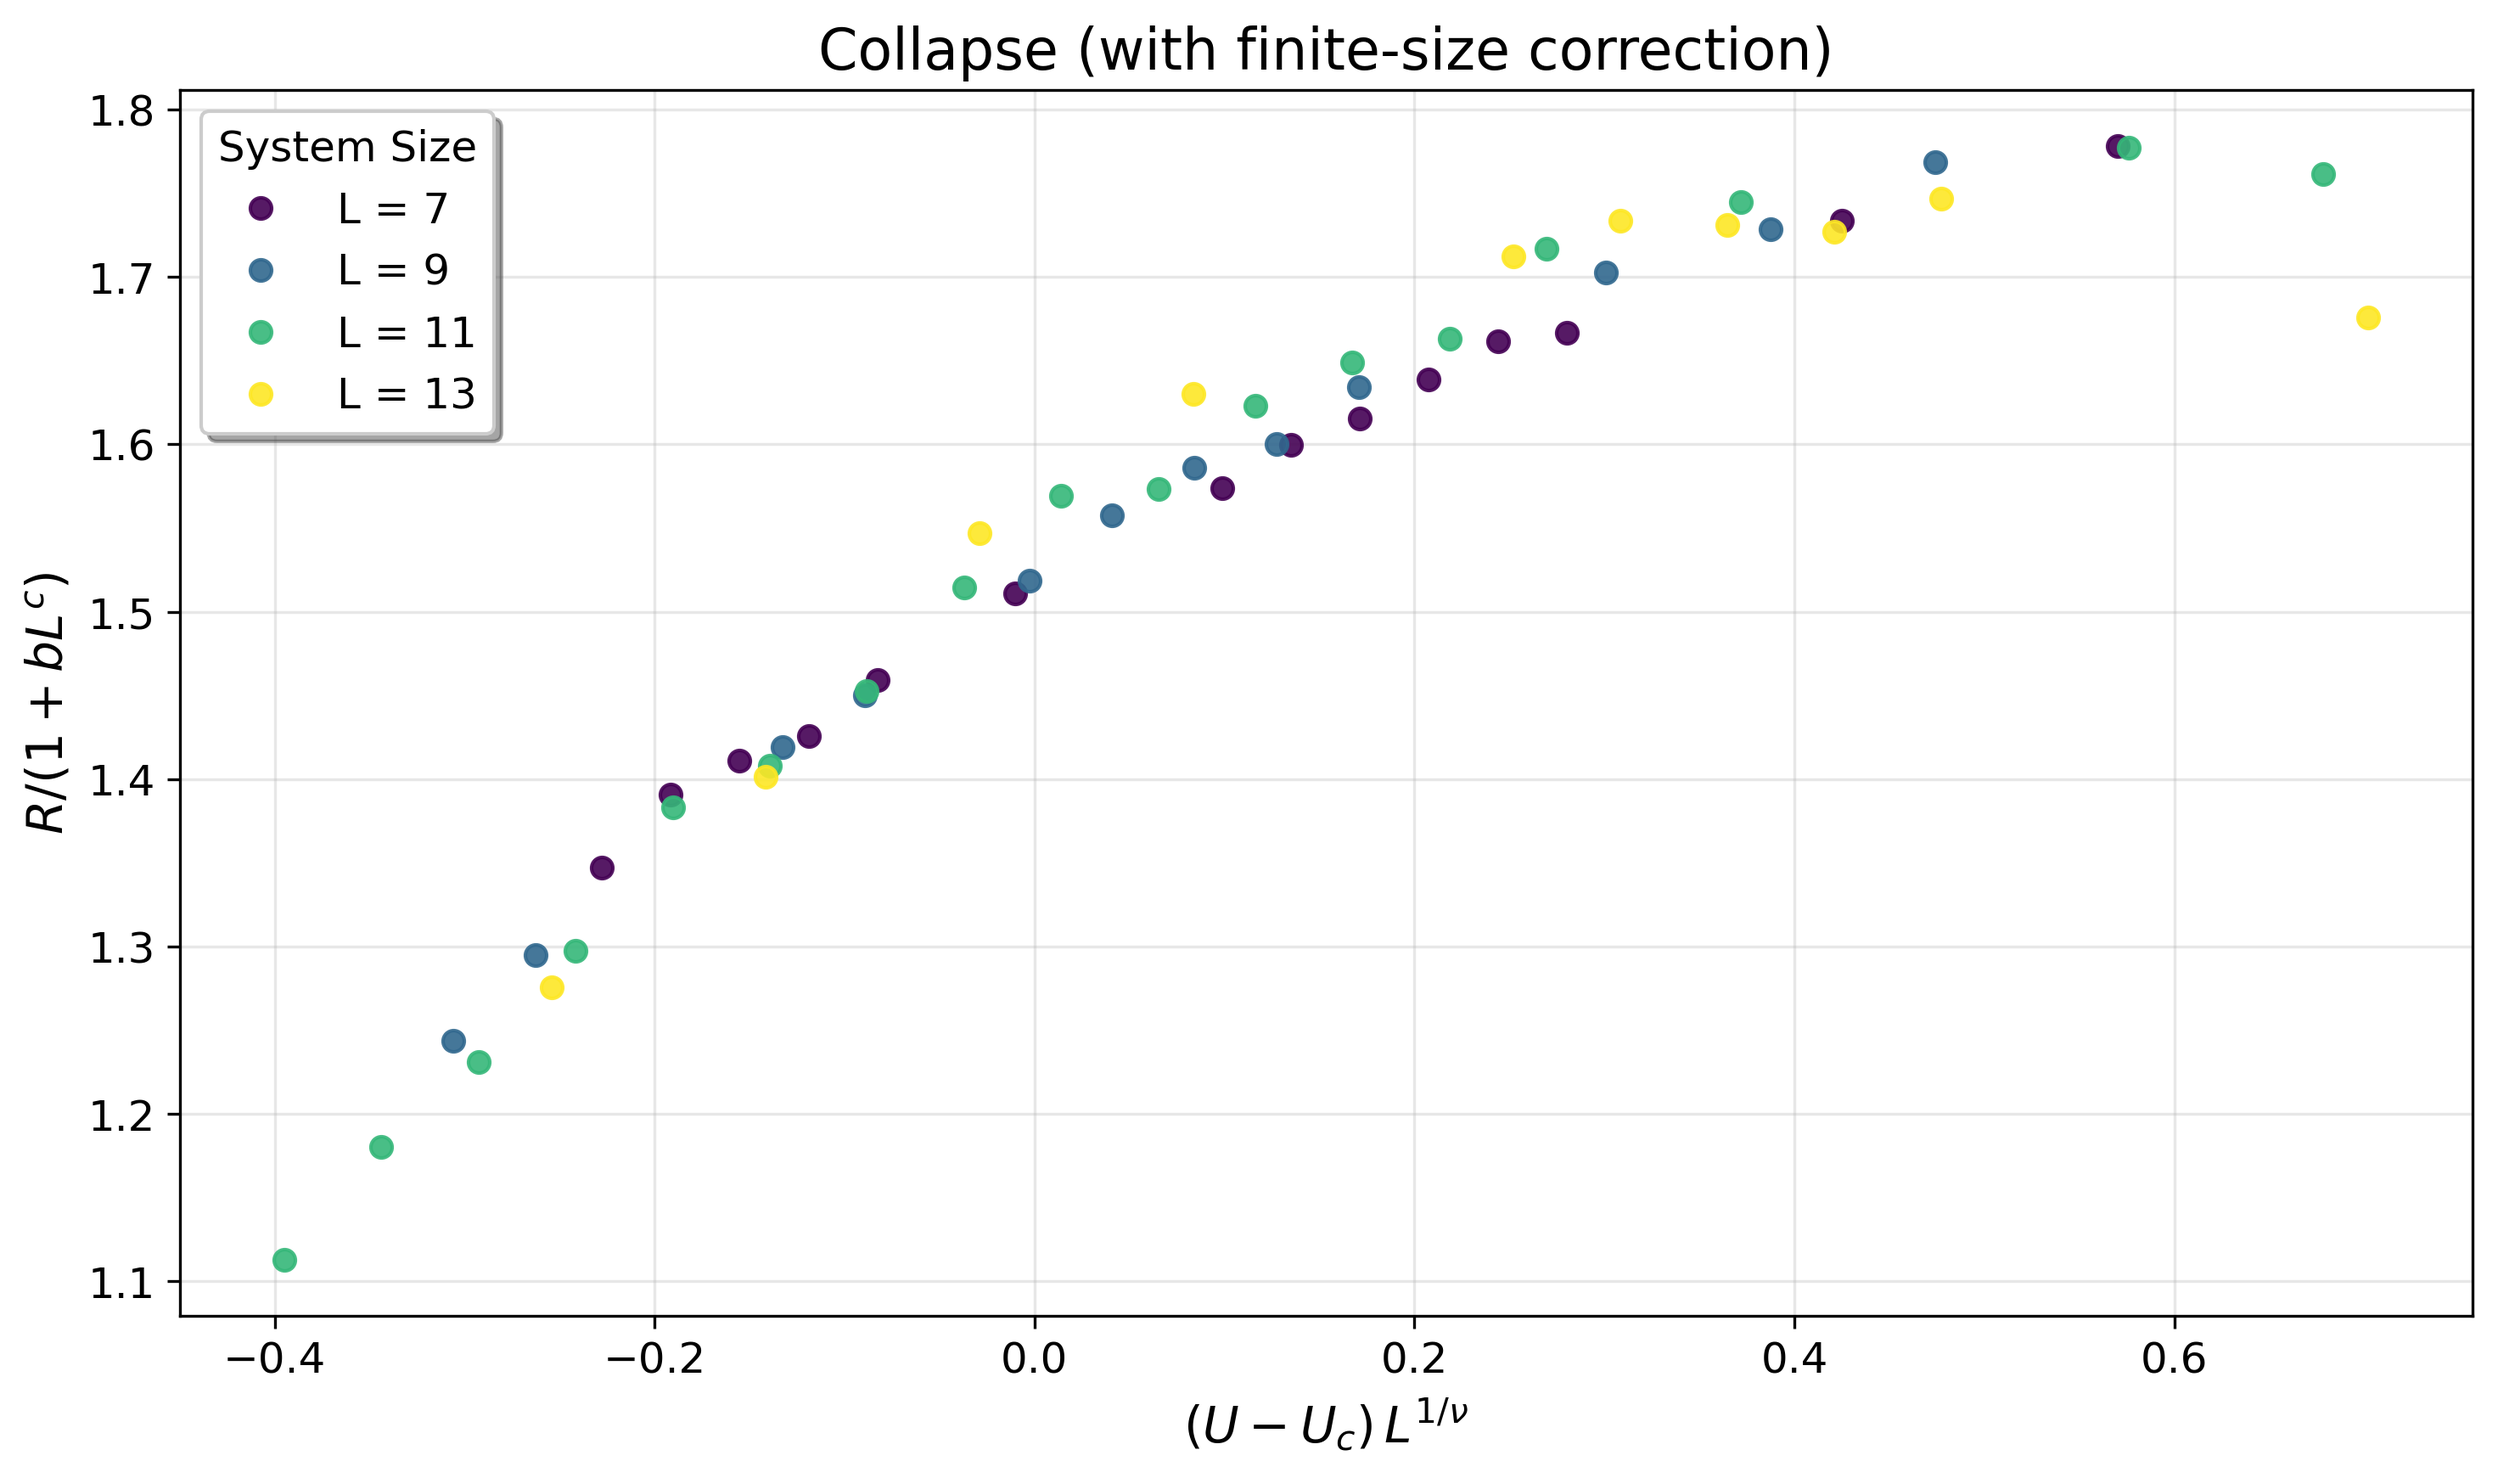
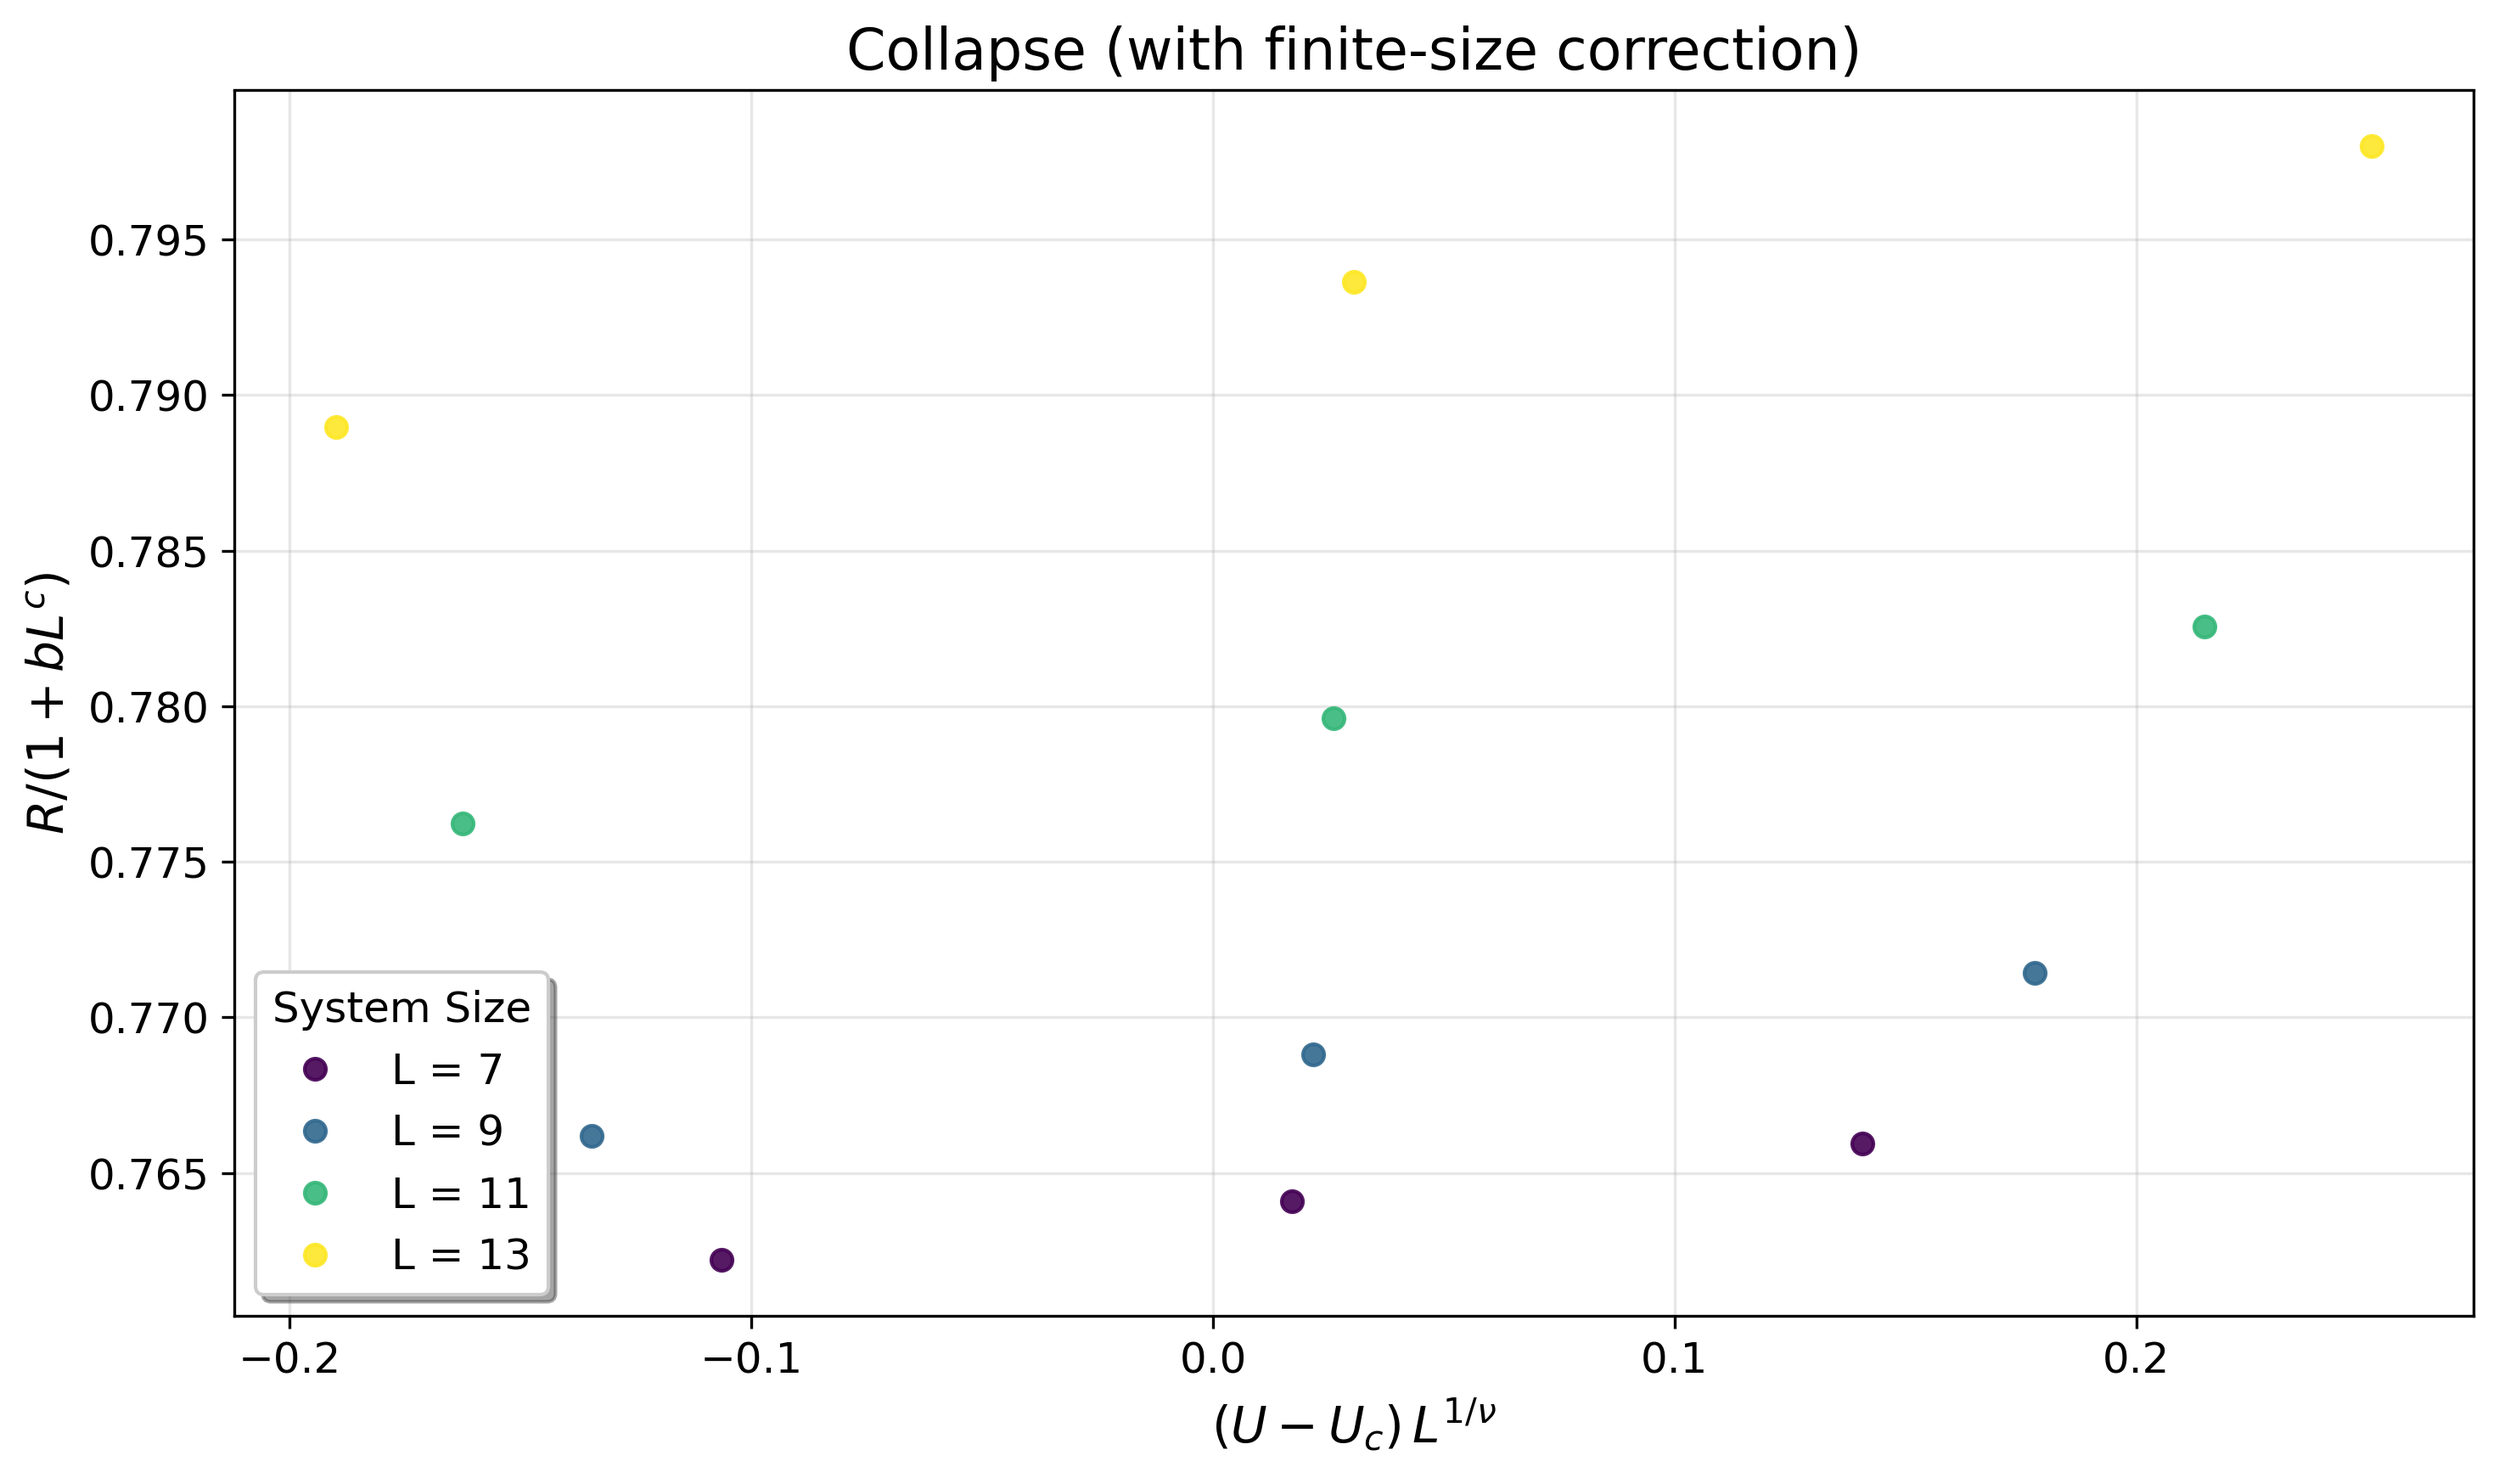
docs: rebuild README images using real_data_combined.csv (windowed robust fits)

diff --git a/examples/build_readme_images.py b/examples/build_readme_images.py
@@ -1,5 +1,6 @@
 #!/usr/bin/env python3
 import os
+import argparse
 import numpy as np
 import pandas as pd
 import matplotlib
@@ -24,7 +25,7 @@ rcParams['figure.figsize'] = (10, 6)
 HERE = os.path.dirname(os.path.abspath(__file__))
 ROOT = os.path.dirname(HERE)
 IMAGES_DIR = os.path.join(ROOT, 'docs', 'images')
-CSV_PATH = os.path.join(HERE, 'sample_data.csv')
+DEFAULT_CSV_PATH = os.path.join(HERE, 'sample_data.csv')
 
 
 def load_sample_csv(csv_path: str):
@@ -47,15 +48,13 @@ def compute_window(df: pd.DataFrame, width: float = 0.10):
     U_min, U_max = float(U_vals.min()), float(U_vals.max())
     if U_max - U_min <= width:
         return U_min, U_max
-    # slide center and compute across-L std within window
     centers = np.linspace(U_min + 0.5*width, U_max - 0.5*width, 60)
     best_c, best_score = centers[0], np.inf
     for c in centers:
         lo, hi = c - 0.5*width, c + 0.5*width
         sub = df[(df['U'] >= lo) & (df['U'] <= hi)]
-        # group by L, compute Y std, then take mean across L
         scores = []
-        for Lv, g in sub.groupby('L'):
+        for _, g in sub.groupby('L'):
             if len(g) >= 3:
                 scores.append(np.nanstd(g['Y'].to_numpy(float)))
         if len(scores) >= 2:
@@ -145,7 +144,6 @@ def best_nofse_params(data_win: np.ndarray, err: np.ndarray | None):
             except Exception:
                 continue
     if best is None:
-        # fallback single fit
         params, _ = fit_data_collapse(
             data_win, err, (u_min+u_max)/2, 1.0,
             n_knots=12, lam=1e-3, n_boot=0, random_state=0,
@@ -157,28 +155,32 @@ def best_nofse_params(data_win: np.ndarray, err: np.ndarray | None):
 
 
 def main():
-    print('Loading sample data:', CSV_PATH)
-    data, err, df = load_sample_csv(CSV_PATH)
+    parser = argparse.ArgumentParser(description='Build README collapse images from CSV')
+    parser.add_argument('--csv', type=str, default=DEFAULT_CSV_PATH, help='Path to CSV with columns L,U,Y[,sigma]')
+    parser.add_argument('--width', type=float, default=0.10, help='U-window width for near-critical selection')
+    args = parser.parse_args()
 
-    # Plot raw (full)
+    csv_path = os.path.abspath(args.csv)
+    width = float(args.width)
+
+    print('Loading data:', csv_path)
+    data, err, df = load_sample_csv(csv_path)
+
     raw_png = os.path.join(IMAGES_DIR, 'raw_data.png')
     plot_raw(df, raw_png)
     print('Saved:', raw_png)
 
-    # Choose a near-critical U window to improve visual overlap
-    lo, hi = compute_window(df, width=0.10)
+    lo, hi = compute_window(df, width=width)
     df_win = df[(df['U'] >= lo) & (df['U'] <= hi)].copy()
     data_win = np.column_stack([df_win['L'].to_numpy(float), df_win['U'].to_numpy(float), df_win['Y'].to_numpy(float)])
     err_win = df_win['sigma'].to_numpy(float) if 'sigma' in df_win.columns else None
 
-    # Fit without finite-size correction using robust multi-start scan
     print(f'Fitting without finite-size correction on window [{lo:.4f}, {hi:.4f}] ...')
     params_nofse = best_nofse_params(data_win, err_win)
     nofse_png = os.path.join(IMAGES_DIR, 'nofse_collapse.png')
     plot_collapse(data_win, params_nofse, nofse_png, normalize=False)
     print('Saved:', nofse_png, 'params=', params_nofse)
 
-    # Fit with finite-size correction (robust variant) on the same window
     print('Fitting with finite-size correction (robust) ...')
     b_grid = np.linspace(0.2, 1.2, 6)
     c_grid = np.linspace(-1.5, -0.3, 7)
